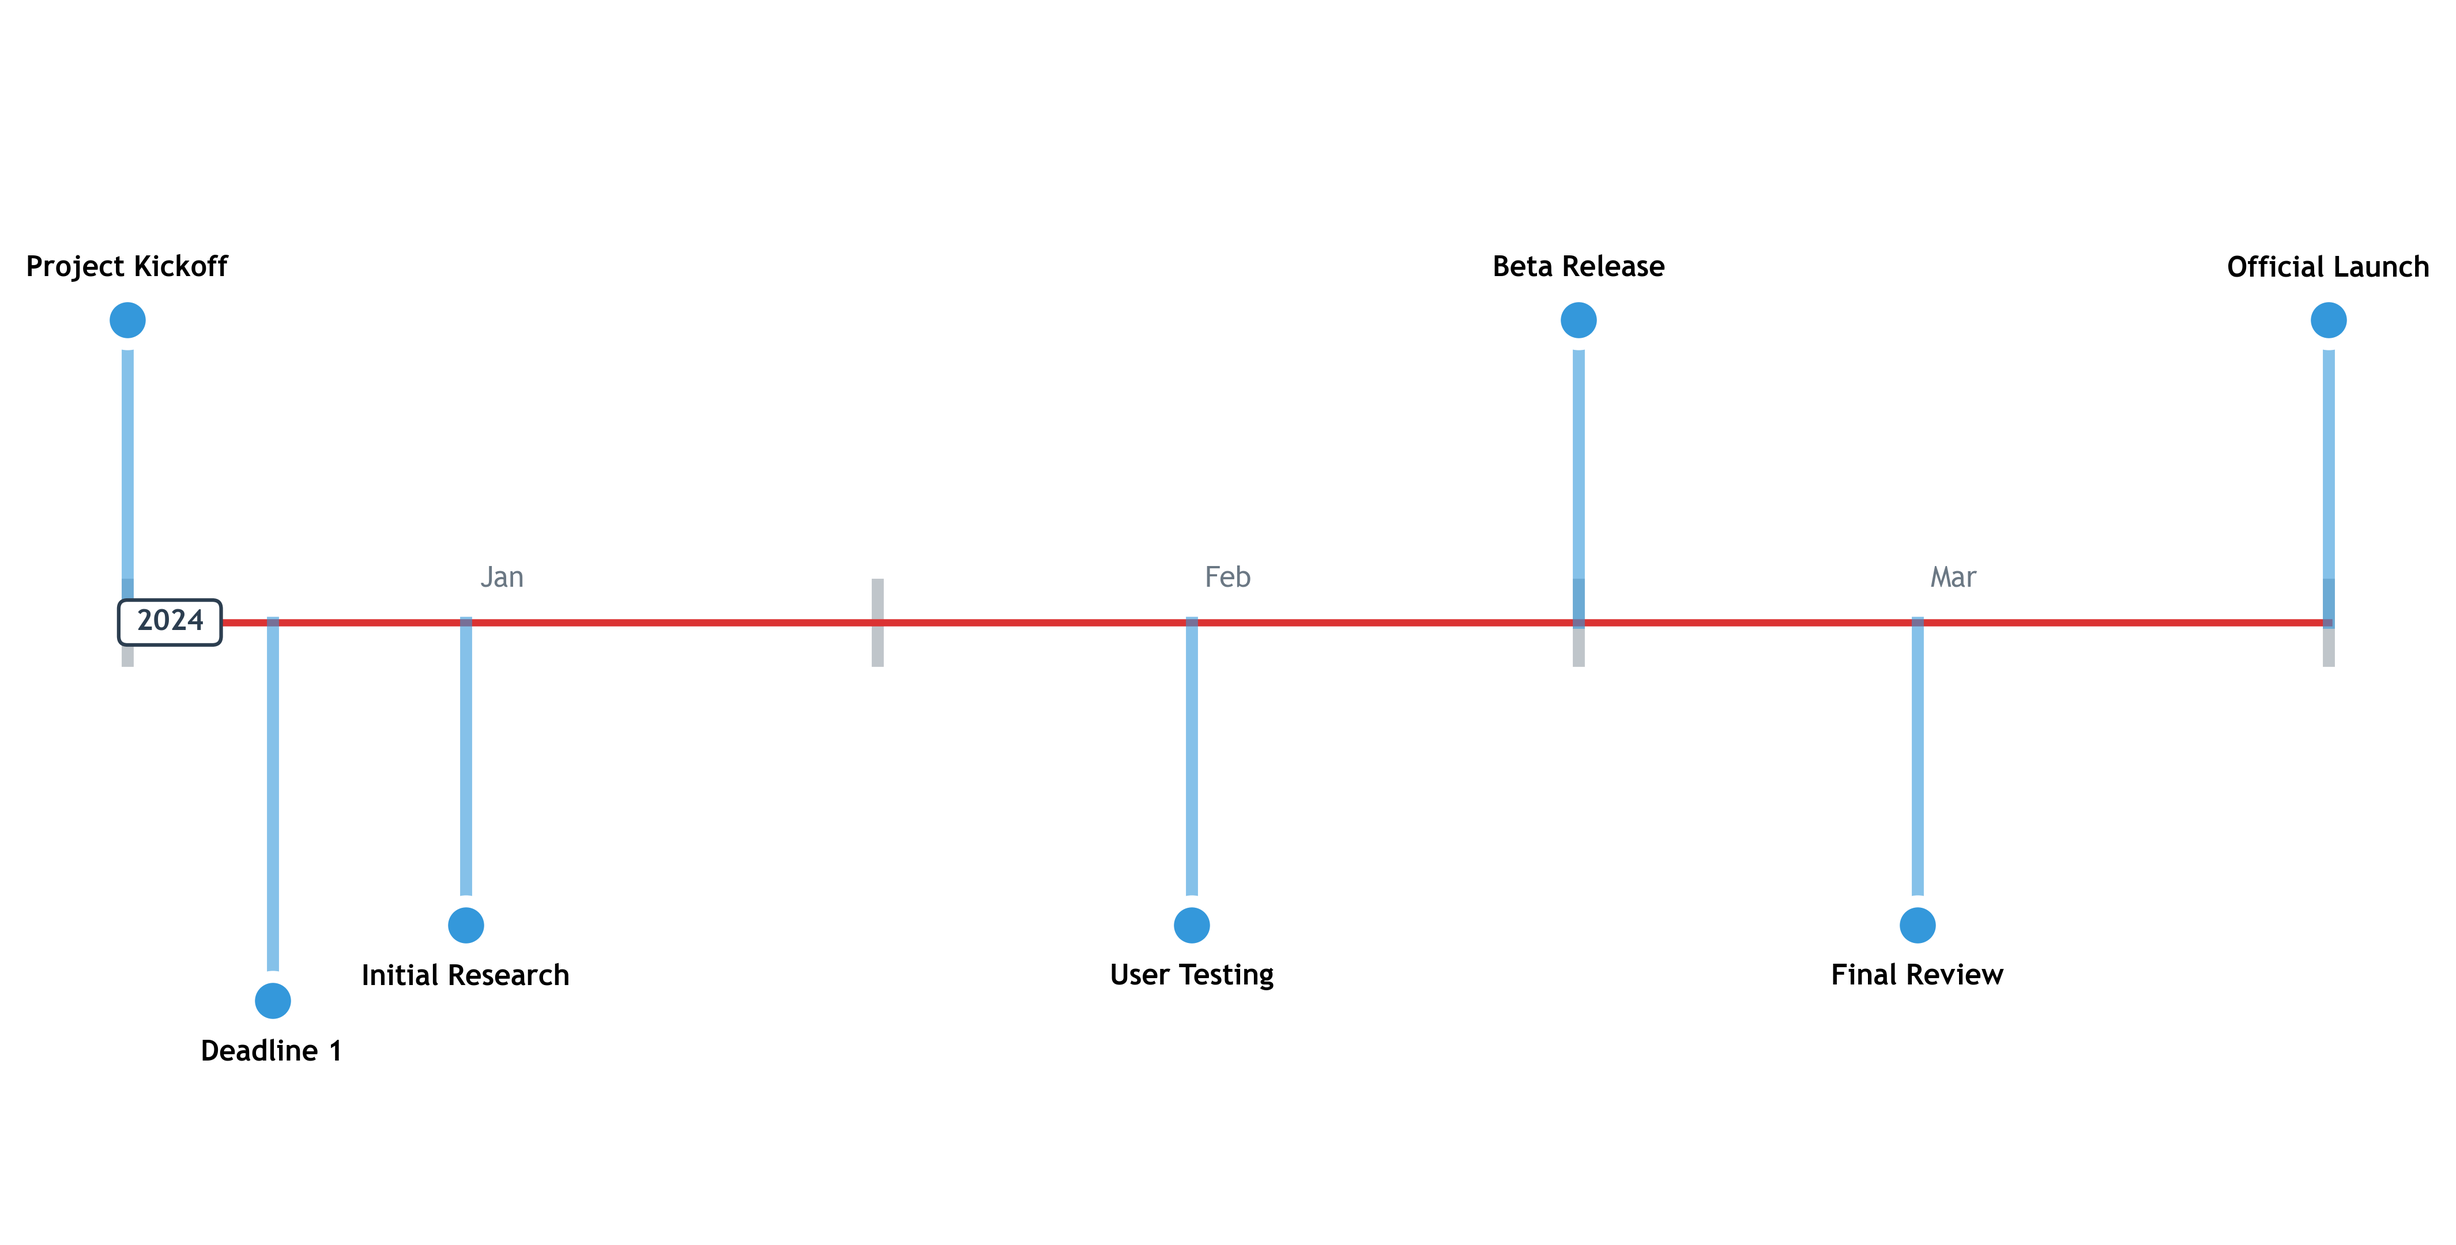
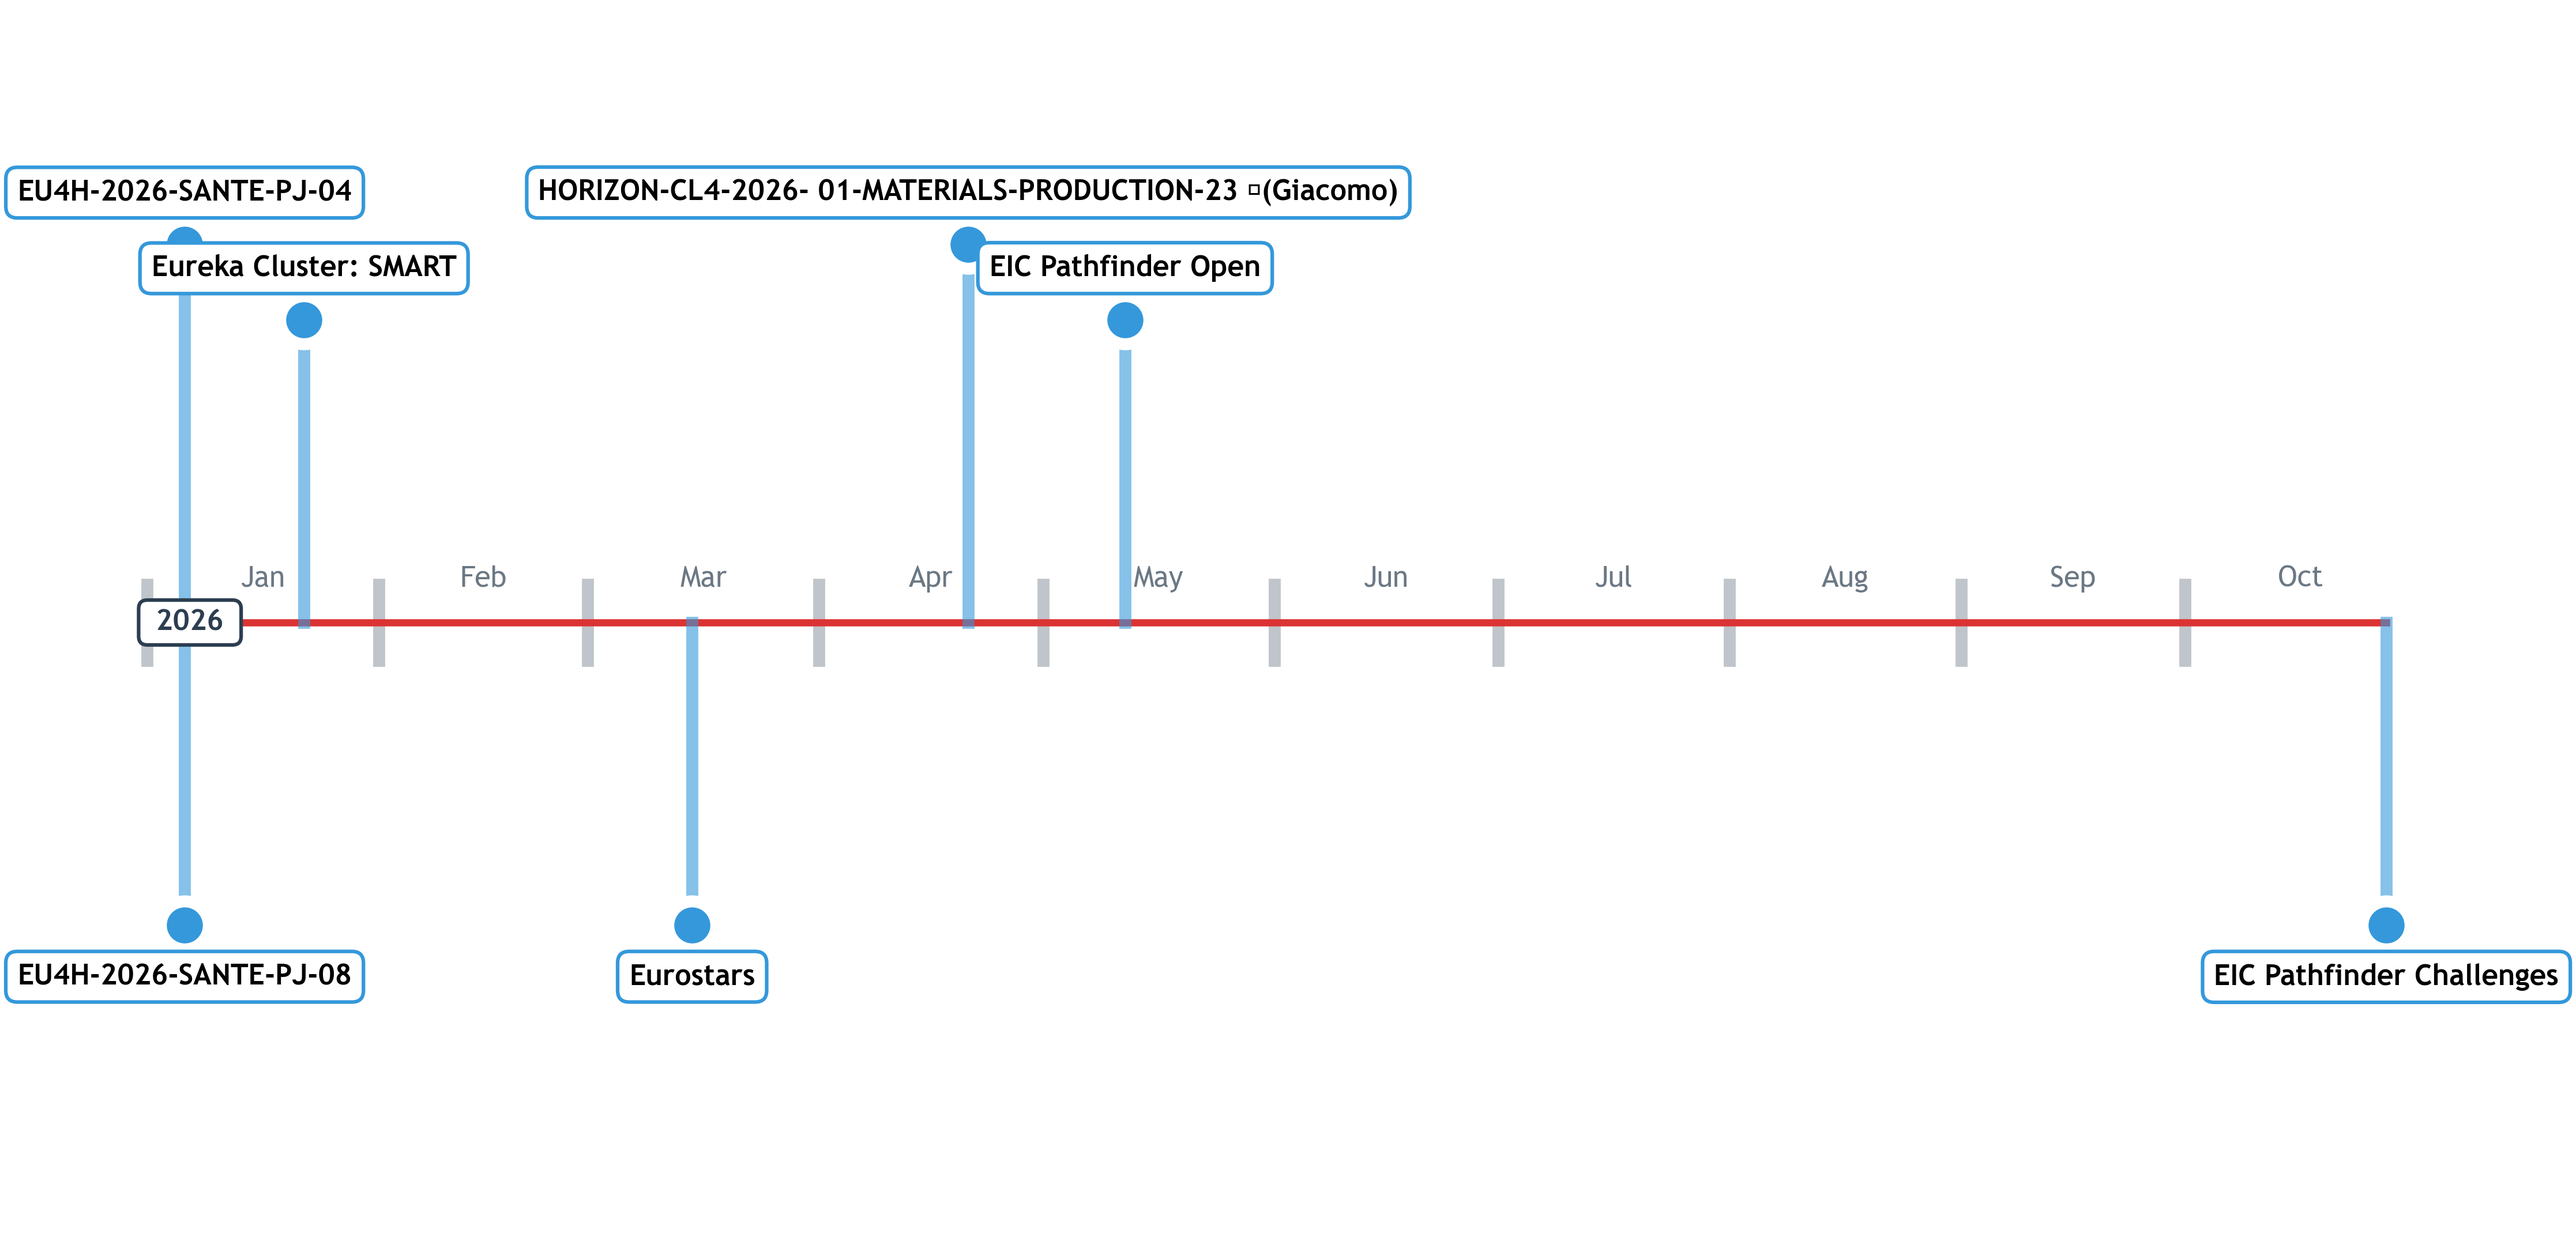
Perfect

diff --git a/templates/index.html b/templates/index.html
@@ -403,6 +403,14 @@
                             <label>Month Tick Color</label>
                             <input type="color" id="colors.month_boundary" onchange="updateConfig()">
                         </div>
+                        <div class="config-field">
+                            <label>Event Box Fill</label>
+                            <input type="color" id="colors.event_box_fill" onchange="updateConfig()">
+                        </div>
+                        <div class="config-field">
+                            <label>Event Box Outline</label>
+                            <input type="color" id="colors.event_box_outline" onchange="updateConfig()">
+                        </div>
                     </div>
 
                     <div class="config-section">
@@ -489,6 +497,18 @@
                             </label>
                         </div>
                         <div class="config-field">
+                            <label style="display: flex; align-items: center; gap: 8px; cursor: pointer;">
+                                <input type="checkbox" id="visual.show_event_boxes" onchange="updateConfig()" style="width: auto;">
+                                Show Event Label Boxes
+                            </label>
+                        </div>
+                        <div class="config-field">
+                            <label style="display: flex; align-items: center; gap: 8px; cursor: pointer;">
+                                <input type="checkbox" id="visual.show_markers" onchange="updateConfig()" style="width: auto;">
+                                Show Circular Markers
+                            </label>
+                        </div>
+                        <div class="config-field">
                             <label>Timeline Line Width</label>
                             <input type="number" id="visual.timeline_line_width" step="0.1" onchange="updateConfig()">
                         </div>
@@ -519,6 +539,14 @@
                         <div class="config-field">
                             <label>Month Tick Alpha</label>
                             <input type="number" id="visual.month_boundary_alpha" step="0.1" min="0" max="1" onchange="updateConfig()">
+                        </div>
+                        <div class="config-field">
+                            <label>Event Box Padding</label>
+                            <input type="number" id="visual.event_box_padding" step="0.1" onchange="updateConfig()">
+                        </div>
+                        <div class="config-field">
+                            <label>Event Box Line Width</label>
+                            <input type="number" id="visual.event_box_linewidth" step="0.1" onchange="updateConfig()">
                         </div>
                     </div>
 

diff --git a/timeline_generator.py b/timeline_generator.py
@@ -37,7 +37,8 @@ def get_default_config():
                   "text": "#2C3E50", "date_text": "#7F8C8D",
                   "month_boundary": "#2C3E50", "month_label": "#2C3E50",
                   "year_label": "#2C3E50", "year_box_fill": "#FFFFFF",
-                  "year_box_outline": "#2C3E50", "marker_outline": "#FFFFFF"},
+                  "year_box_outline": "#2C3E50", "marker_outline": "#FFFFFF",
+                  "event_box_fill": "#FFFFFF", "event_box_outline": "#3498DB"},
         "fonts": {"family": "sans-serif", "title_size": 16, "label_size": 10, "date_size": 8,
                  "month_label_size": 8, "year_label_size": 10,
                  "label_bold": False, "label_italic": False,
@@ -48,7 +49,9 @@ def get_default_config():
                   "date_format_display": "%d.%m.%Y", "month_boundary_width": 0.5,
                   "month_boundary_alpha": 0.3, "month_boundary_style": "--",
                   "month_label_offset": 0.08, "month_label_alpha": 0.7,
-                  "month_tick_height": 0.1, "show_dates": True, "year_box_padding": 0.3, "year_box_linewidth": 1.5,
+                  "month_tick_height": 0.1, "show_dates": True, "show_event_boxes": True,
+                  "show_markers": True, "event_box_padding": 0.4, "event_box_linewidth": 1.5,
+                  "year_box_padding": 0.3, "year_box_linewidth": 1.5,
                   "marker_outline_width": 1, "event_label_offset": 0.1,
                   "event_date_offset": 0.15}
     }
@@ -349,9 +352,24 @@ def create_timeline(df, config, output_path):
                            edgecolors=colors['marker_outline'],
                            linewidths=visual['marker_outline_width'])
 
+        # Hide marker if disabled
+        if not visual.get('show_markers', True):
+            marker.set_alpha(0)
+
         # Create label (but don't finalize position yet)
         label_weight = 'bold' if fonts.get('label_bold', False) else 'normal'
         label_style = 'italic' if fonts.get('label_italic', False) else 'normal'
+
+        # Prepare bbox (rounded box) for event labels if enabled
+        bbox_props = None
+        if visual.get('show_event_boxes', True):
+            bbox_props = dict(
+                boxstyle=f'round,pad={visual.get("event_box_padding", 0.4)}',
+                facecolor=colors.get('event_box_fill', '#FFFFFF'),
+                edgecolor=colors.get('event_box_outline', color),
+                linewidth=visual.get('event_box_linewidth', 1.5)
+            )
+
         text_obj = ax.text(date_num, y_text, name,
                           ha='center',
                           va=va,
@@ -360,6 +378,7 @@ def create_timeline(df, config, output_path):
                           color=colors['text'],
                           fontweight=label_weight,
                           style=label_style,
+                          bbox=bbox_props,
                           wrap=True,
                           zorder=4)
 
